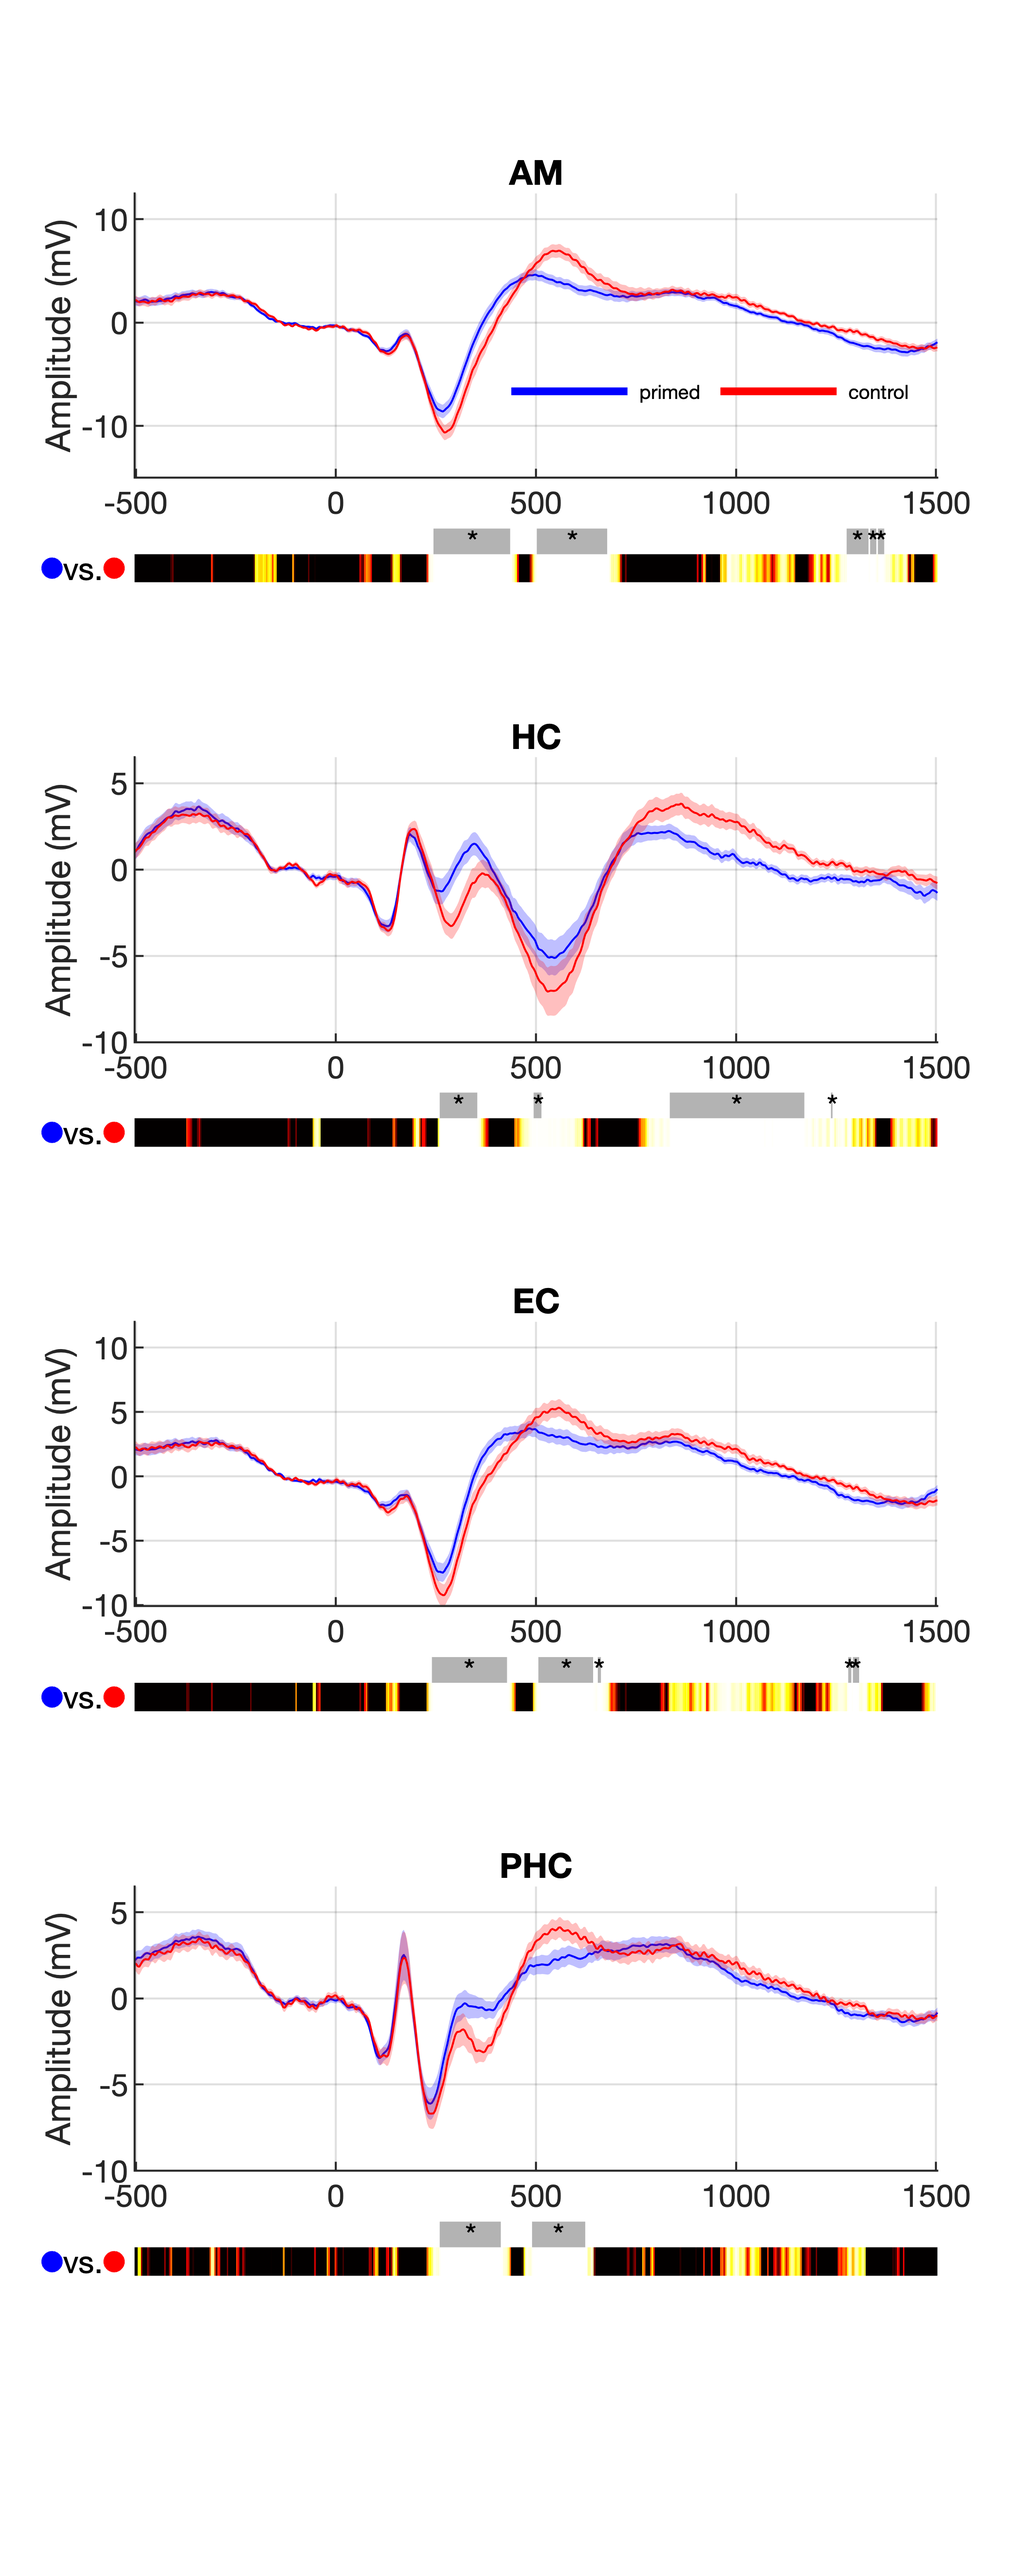
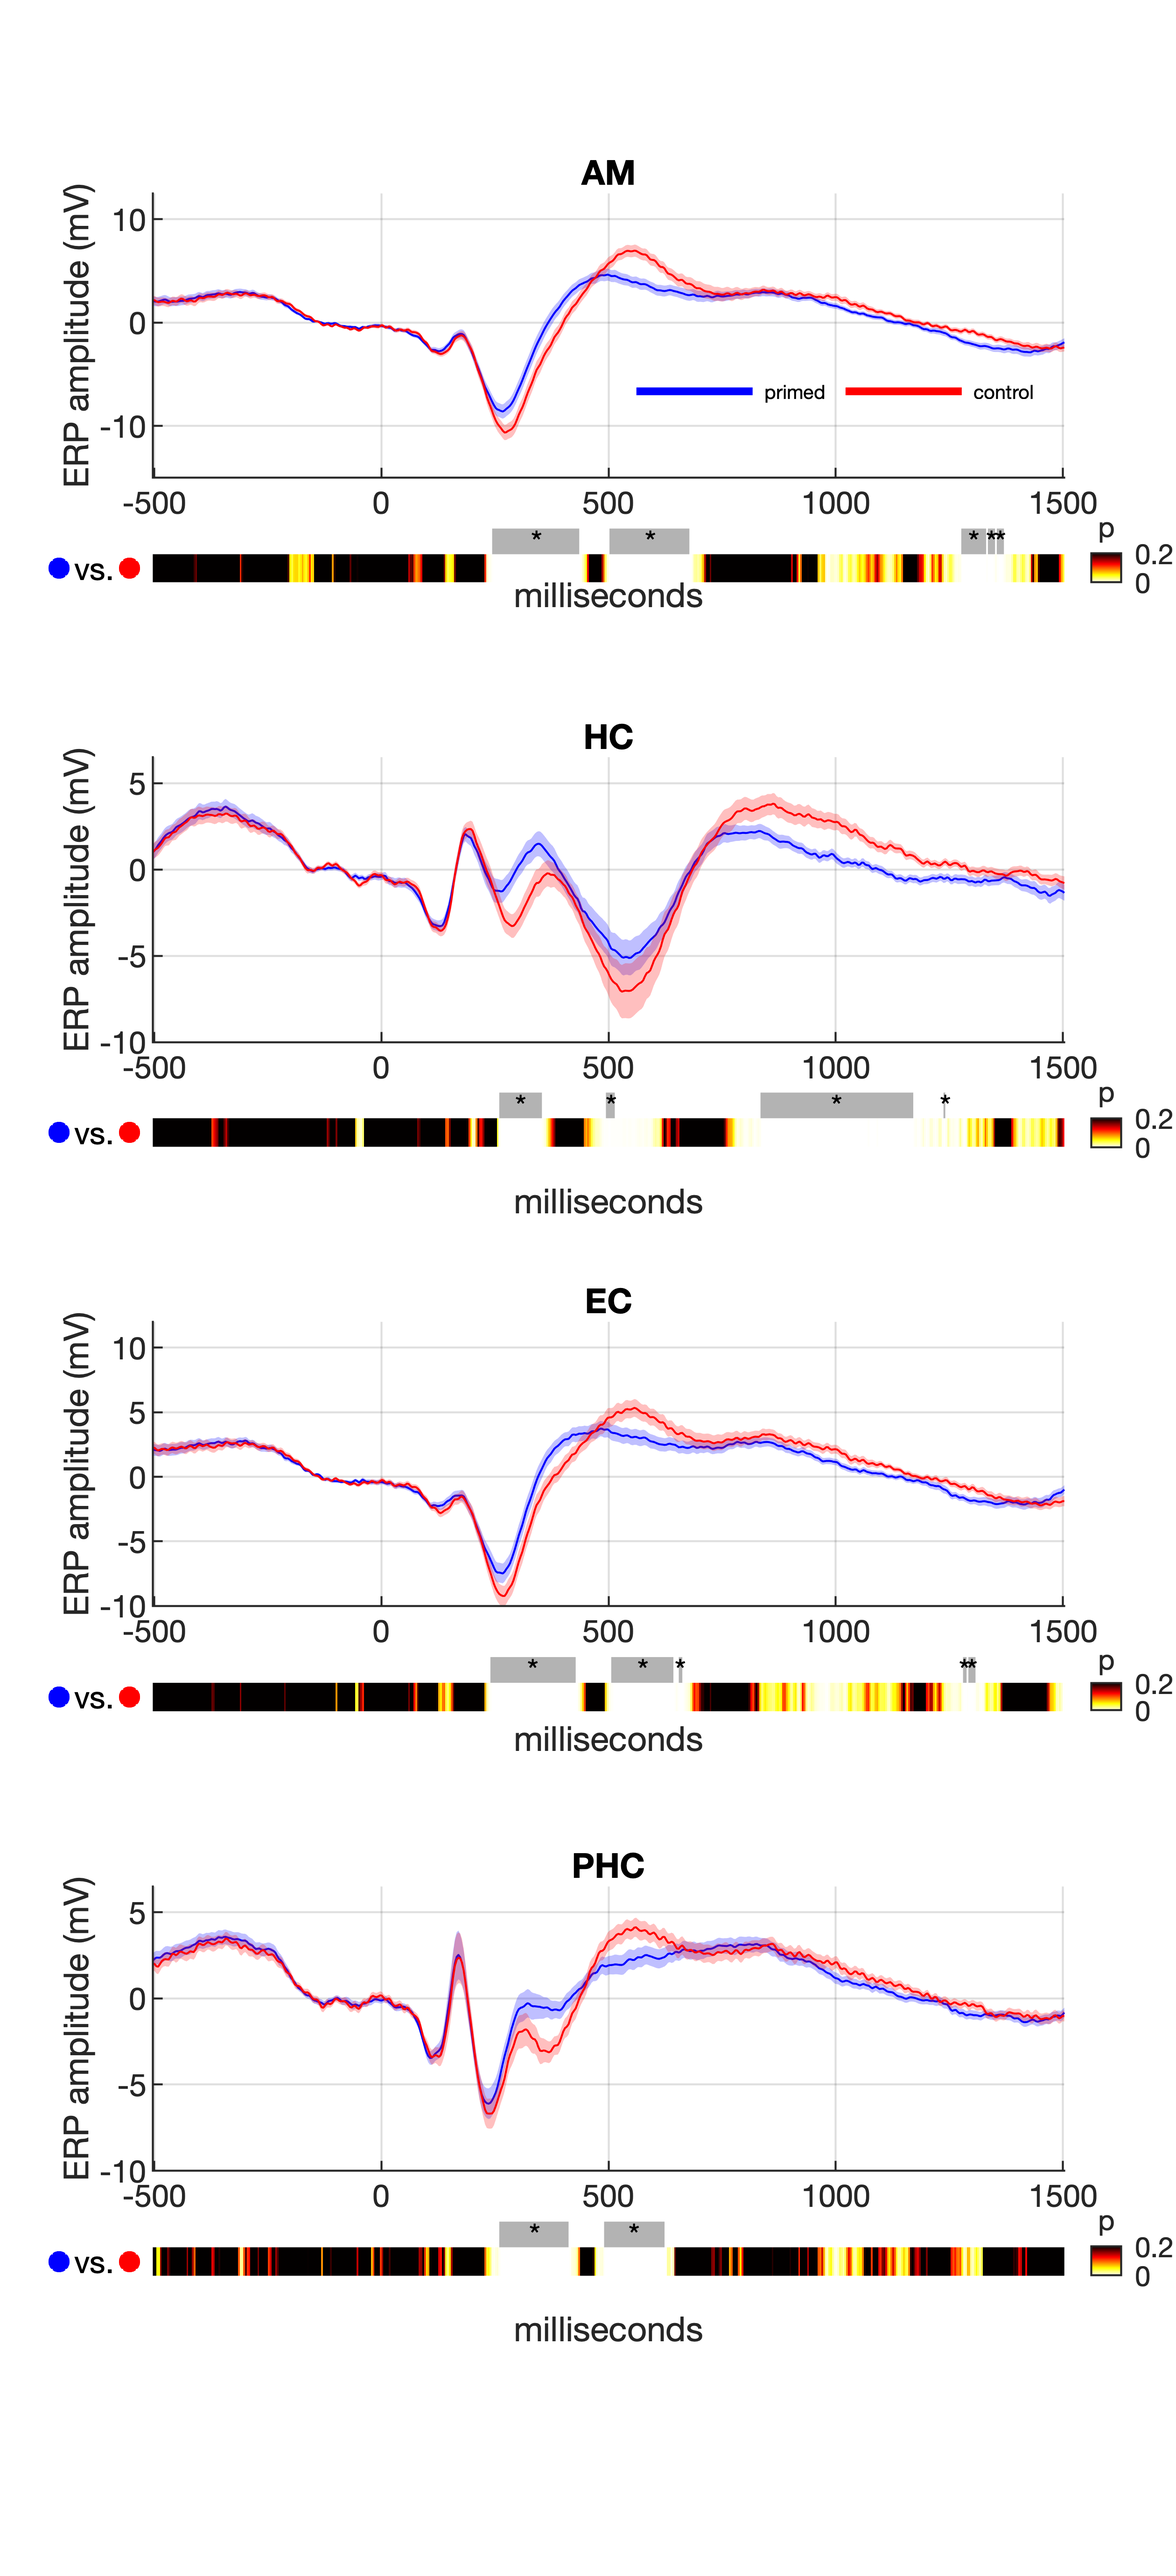
requests in editorial checklist  for Figure 2C

diff --git a/ERPsPlotFigure1C.m b/ERPsPlotFigure1C.m
@@ -97,7 +97,7 @@ toi = find(eeg(1).stime > to, 1, 'first' );
 
 figh = figure('color', 'w', 'visible', 'on');
 figh.PaperUnits = 'inches';
-figh.PaperPosition = [0 0 3.7 9.2];
+figh.PaperPosition = [0 0 4.2 9.2];
 % display it somewhat similar to what will be plotted
 figh.Position = [200 200  figh.PaperPosition(3)*150 figh.PaperPosition(4)*150];
 fontSize = 8;
@@ -117,13 +117,21 @@ for regi = 1:nregions
         set(handles(end), 'Location','best')
     end
     colormap(cbhandle, flipud(hot));
-    xlabel(handles(1), '');
-    ylabel(handles(1), 'Amplitude (mV)');
+    cbh = colorbar(cbhandle);
+    cbh.Position(1) = cbh.Position(1) + 0.08;
+    cbh.Ticks = [0 0.2];
+    cbh.TickLabels = {'0', '0.2'};
+    cbh.Label.String = 'p';
+    cbh.Label.Rotation = 0;
+    cbh.Label.Position = [0.5 0.5 0];
+    lbh = xlabel(handles(1), 'milliseconds');
+    %if regi == 4 
+    lbh.Position(2)= lbh.Position(2)-6;
+    ylabel(handles(1), 'ERP amplitude (mV)');
     title(handles(1),regions(regi).name);
 end
 
 set(findall(gcf,'type','text'),'FontSize',fontSize);%,'fontWeight','normal');
 set(findall(0,'type','axes'),'FontSize',fontSize)%,'fontWeight','normal');
-
 print(figh,['plots', filesep, 'Figure1C'], '-dpng', '-r600')
 
